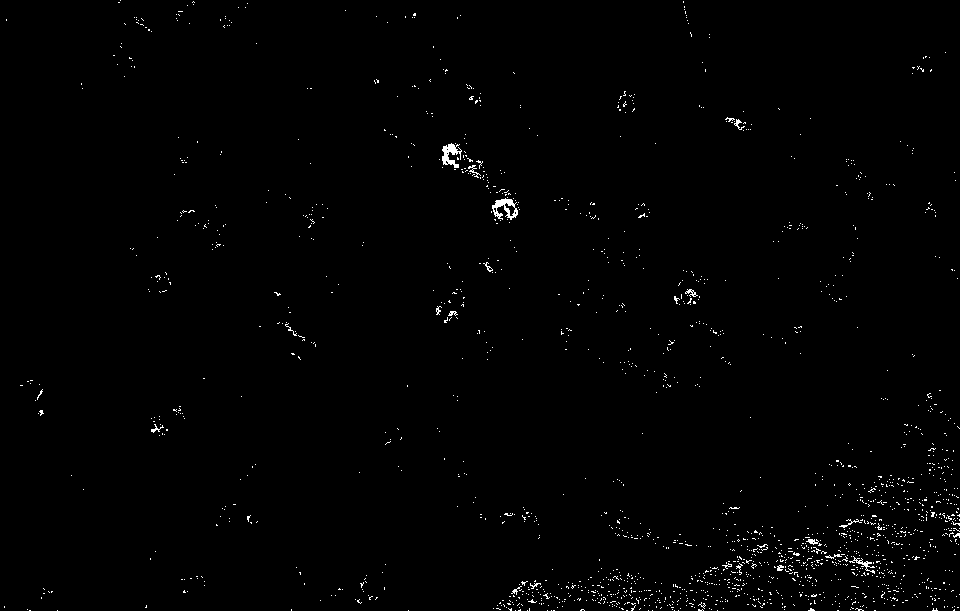
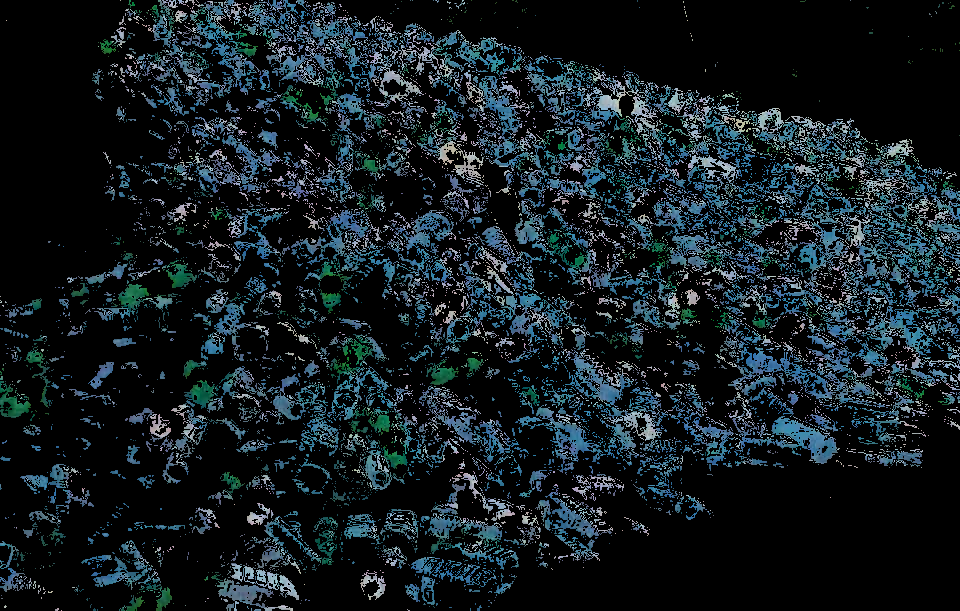
feat: Add list support for color filtering and add a `--help` argument

diff --git a/src/main/java/io/github/steveplays28/rubbishimagedetection/cli/CLIOptionsParser.java b/src/main/java/io/github/steveplays28/rubbishimagedetection/cli/CLIOptionsParser.java
@@ -16,12 +16,13 @@ public class CLIOptionsParser {
 		Options options = new Options();
 
 		Option inputDirectory = new Option("i", "input", true, "Input directory, where unprocessed images are located.");
-		inputDirectory.setRequired(true);
 		options.addOption(inputDirectory);
 
 		Option outputDirectory = new Option("o", "output", true, "Output directory, where processed images will be stored.");
-		outputDirectory.setRequired(true);
 		options.addOption(outputDirectory);
+
+		Option help = new Option("h", "help", false, "Prints the program usage instructions.");
+		options.addOption(help);
 
 		try {
 			commandLine = COMMAND_LINE_PARSER.parse(options, args);
@@ -29,6 +30,16 @@ public class CLIOptionsParser {
 			Main.LOGGER.error(ex.getMessage());
 			HELP_FORMATTER.printHelp(Main.PROJECT_ID, options);
 
+			System.exit(1);
+		}
+
+		if (commandLine.hasOption(help.getOpt())) {
+			HELP_FORMATTER.printHelp(Main.PROJECT_ID, options);
+			System.exit(0);
+		} else if (commandLine.getOptionValue(inputDirectory.getOpt()) == null || commandLine.getOptionValue(
+				outputDirectory.getOpt()) == null) {
+			Main.LOGGER.error("Input directory or output directory was not specified. Check if the arguments have the right name.");
+			HELP_FORMATTER.printHelp(Main.PROJECT_ID, options);
 			System.exit(1);
 		}
 

diff --git a/src/main/java/io/github/steveplays28/rubbishimagedetection/Main.java b/src/main/java/io/github/steveplays28/rubbishimagedetection/Main.java
@@ -30,7 +30,7 @@ import java.util.List;
 public class Main {
 	public static final String PROJECT_ID = "rubbish-image-detection";
 	public static final Logger LOGGER = LoggerFactory.getLogger(PROJECT_ID);
-	public static final int COLOR_BOUNDS_DEVIATION = 15;
+	public static final int COLOR_BOUNDS_DEVIATION = 30;
 	public static final List<Color> COLORS = new ArrayList<>() {
 		{
 			// Red balls
@@ -44,8 +44,8 @@ public class Main {
 
 	public static void main(String[] args) {
 		RIDLog4JConfigurator.configure();
-		OpenCVLoader.loadOpenCV();
 		var cliOptions = CLIOptionsParser.parse(args);
+		OpenCVLoader.loadOpenCV();
 		ImageProcessor.processImagesInFolder(cliOptions);
 	}
 }

diff --git a/src/main/java/io/github/steveplays28/rubbishimagedetection/cv/ImageProcessor.java b/src/main/java/io/github/steveplays28/rubbishimagedetection/cv/ImageProcessor.java
@@ -88,6 +88,10 @@ public class ImageProcessor {
 			previousColorFilteredImage = outputImage;
 		}
 
+		// Apply color filtered image as a mask to the original image
+		Imgproc.cvtColor(outputImage, outputImage, Imgproc.COLOR_GRAY2BGR);
+		Core.bitwise_and(image, outputImage, outputImage);
+		Imgproc.cvtColor(outputImage, outputImage, Imgproc.COLOR_BGR2RGB);
 		return outputImage;
 	}
 
